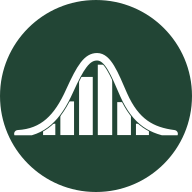
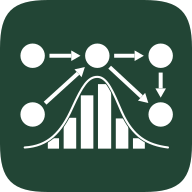
Use the squircle graph-and-plot FlatPPL brand mark

diff --git a/scripts/build-icons.ts b/scripts/build-icons.ts
@@ -5,28 +5,41 @@ import { join, resolve } from "node:path";
 const root = resolve(import.meta.dir, "..");
 const assets = join(root, "assets");
 const master = await readFile(join(assets, "logo-master.svg"), "utf8");
+const squircleProposal = await readFile(join(assets, "proposals", "squircle.svg"), "utf8");
 
+// Whole element, so the arrow group keeps its stroke and marker attributes.
 function group(id: string): string {
   const opening = new RegExp(`<g id="${id}"[^>]*>`).exec(master);
   if (!opening) throw new Error(`missing logo group: ${id}`);
-  const content = opening.index + opening[0].length;
   const tags = /<g\b[^>]*>|<\/g>/g;
-  tags.lastIndex = content;
+  tags.lastIndex = opening.index + opening[0].length;
   let depth = 1;
   for (let tag = tags.exec(master); tag; tag = tags.exec(master)) {
     depth += tag[0] === "</g>" ? -1 : 1;
-    if (depth === 0) return master.slice(content, tag.index);
+    if (depth === 0) {
+      // The compact mark declares no inkscape namespace.
+      return master.slice(opening.index, tag.index + tag[0].length).replace(/\s+inkscape:\w+="[^"]*"/g, "");
+    }
   }
   throw new Error(`unclosed logo group: ${id}`);
 }
 
-const envelope = master.match(/<mask id="histogram-envelope"[\s\S]*?<\/mask>/)?.[0];
-if (!envelope) throw new Error("missing histogram envelope");
+function definition(pattern: RegExp, name: string): string {
+  const match = master.match(pattern)?.[0];
+  if (!match) throw new Error(`missing logo definition: ${name}`);
+  return match;
+}
+
+const envelope = definition(/<mask id="histogram-envelope"[\s\S]*?<\/mask>/, "histogram envelope");
+const arrowhead = definition(/<marker id="arrowhead"[\s\S]*?<\/marker>/, "arrowhead");
+const squircle = squircleProposal.match(/<g id="badge-background"><path d="([^"]+)"/)?.[1];
+if (!squircle) throw new Error("missing squircle background");
+// Graph and plot layers on the squircle background, placed as in the circular proposal.
 const svg = `<svg xmlns="http://www.w3.org/2000/svg" viewBox="0 0 256 256">
   <title>FlatPPL</title>
-  <defs>${envelope.replace('stroke-width="5.6"', 'stroke-width="12.8"')}<clipPath id="plot-baseline" clipPathUnits="userSpaceOnUse"><rect x="0" y="0" width="256" height="178"/></clipPath></defs>
-  <circle cx="128" cy="128" r="128" fill="#224535"/>
-  <g fill="#ffffff" transform="translate(128 128) scale(0.96) translate(-128.5 -123.5)">${group("plot-layer").replace('id="bell-curve"', 'id="bell-curve" clip-path="url(#plot-baseline)"').replace('stroke-width="3.2"', 'stroke-width="10.4"')}</g>
+  <defs>${envelope}${arrowhead}</defs>
+  <path d="${squircle}" fill="#224535"/>
+  <g fill="#ffffff" transform="translate(128 128) scale(.88) translate(-128 -98)">${group("graph-nodes")}${group("graph-arrows")}${group("plot-layer")}</g>
 </svg>
 `;
 // Headers and favicons share the same compact mark.

diff --git a/README.md b/README.md
@@ -49,9 +49,8 @@ create a tag until every consumer accepts the bundle candidate.
 ## Licensing
 
 `assets/logo-master.svg` is the editable logo source. Headers and favicons
-share its flat plot layer
-in a green circle, `assets/logo.svg` and `assets/favicon.svg`. The thicker
-curve is clipped at the bin baseline, with a small gap above the masked bars.
+share its flat graph and plot layers on the squircle background of
+`assets/proposals/squircle.svg`, in `assets/logo.svg` and `assets/favicon.svg`.
 Run `bun run icons` with
 `rsvg-convert` installed to regenerate the SVG, PNG, ICO, and touch icons.
 The ICO contains 16, 32, and 48 pixel images.
@@ -62,8 +61,8 @@ and effect. Chalk blur follows the grain, and the 0.9-unit outline stays inside
 the shapes. The board uses seeded diagonal grain, fine dust, and faint wipe marks.
 
 `assets/proposals/circle.svg` and `assets/proposals/squircle.svg` preserve
-alternative header designs for future use. Current headers use the circular
-plot mark beside the FlatPPL name.
+alternative header designs for future use. Current headers use the squircle
+graph and plot mark beside the FlatPPL name.
 
 Code, CSS, JavaScript, and HTML templates use the MIT License. FlatPPL brand
 assets use the Creative Commons Attribution 4.0 International License. See
